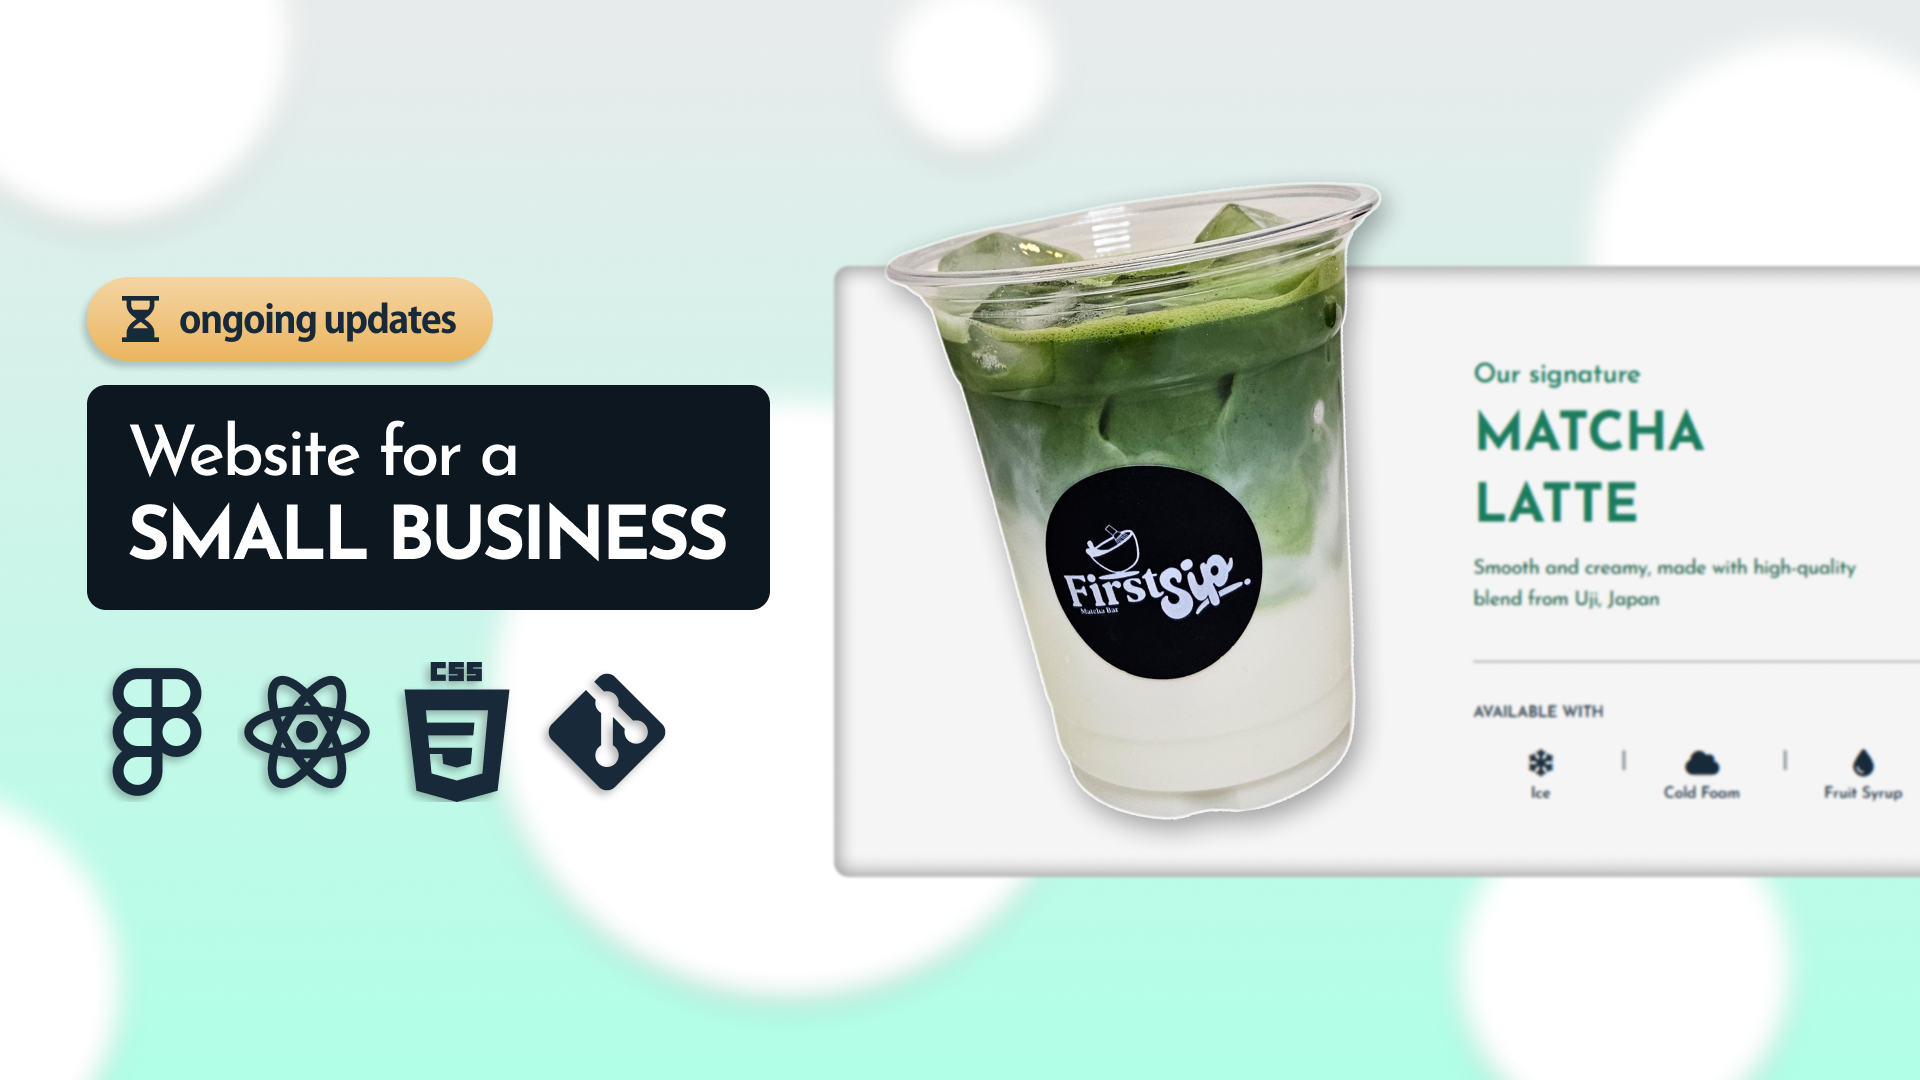
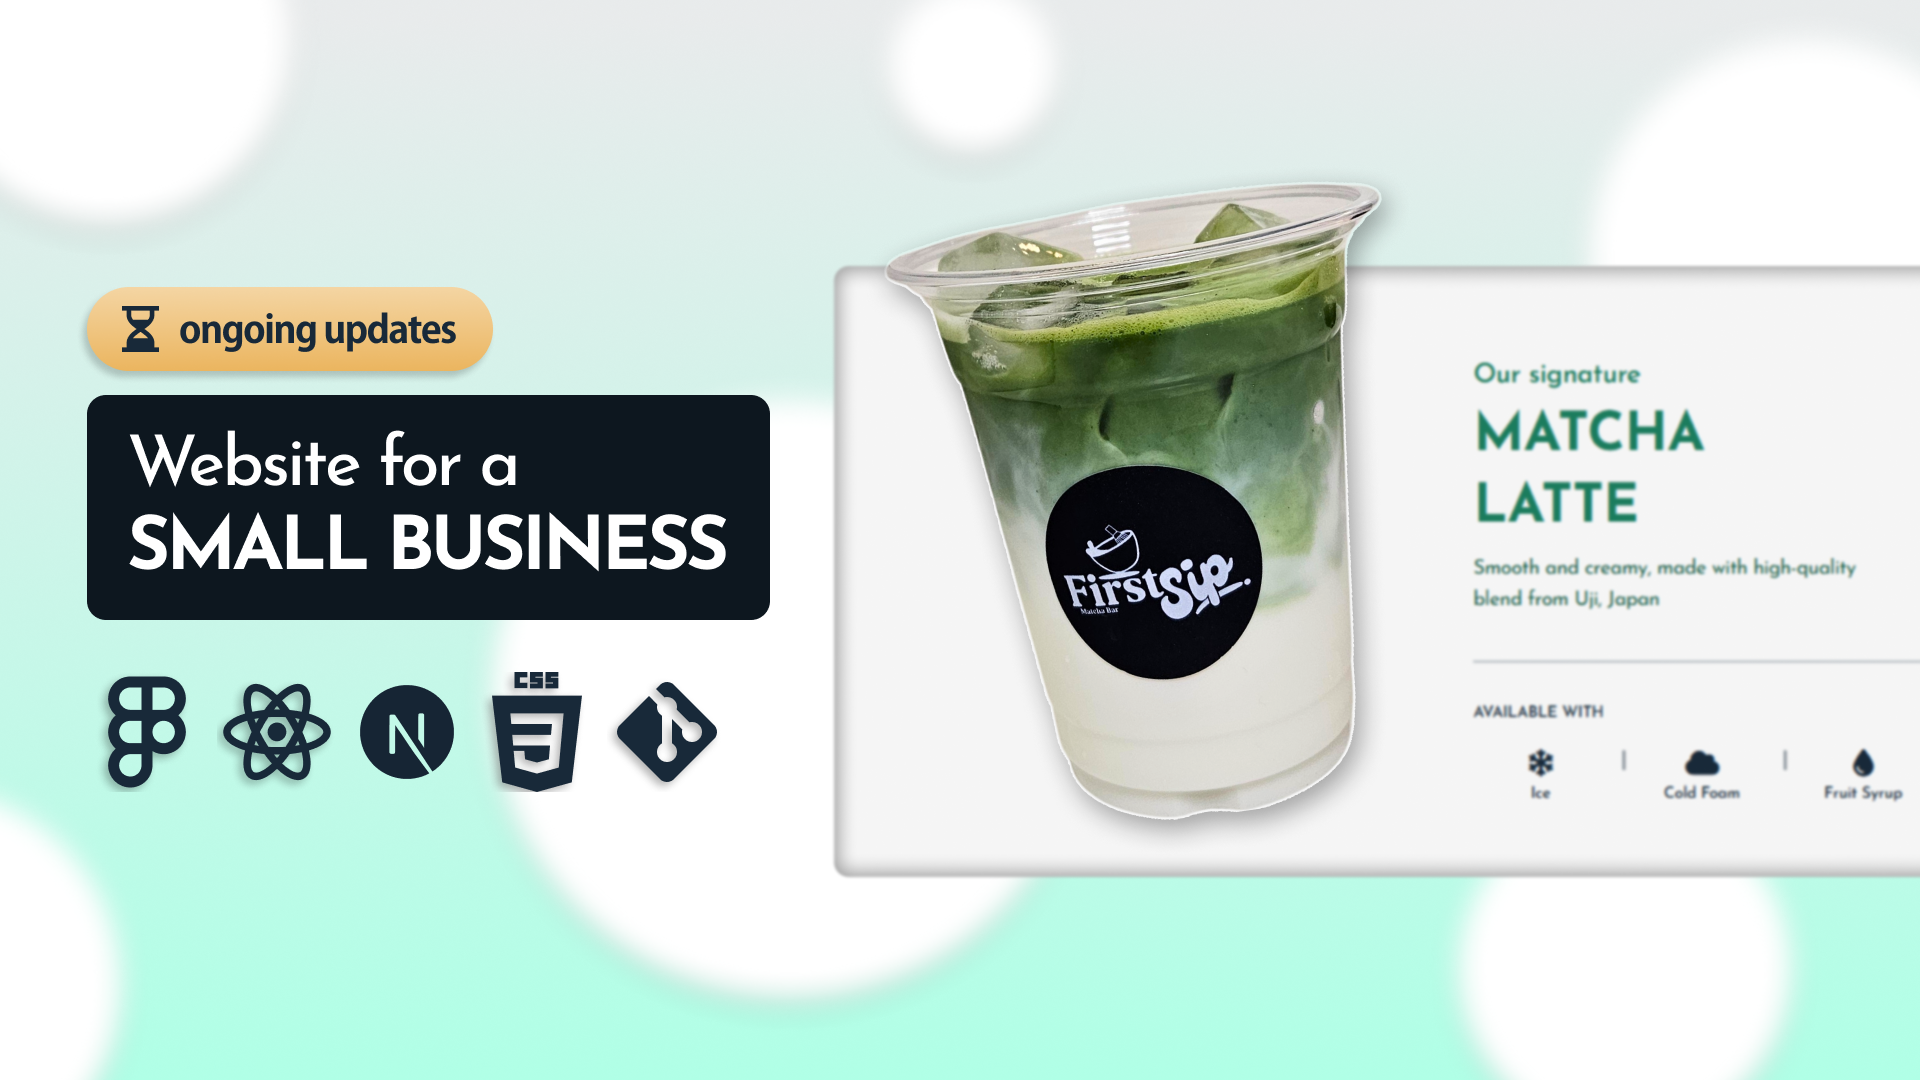
firstsipmatcha, now with next.js!

Changed region(s): [[0.0312, 0.3972, 0.4062, 0.5806], [0.0312, 0.6111, 0.375, 0.7639], [0.0312, 0.2444, 0.4062, 0.3667]]

diff --git a/portfolio/firstsipmatcha-website.html b/portfolio/firstsipmatcha-website.html
@@ -62,18 +62,18 @@
 
         <div class="project-info-item flex-col">
           <p class="subtitle">PLATFORM</p>
-          <p>Figma, ReactJS, CSS, Git<p>
+          <p>Figma, ReactJS, NextJS, Git<p>
         </div>
 
         <div class="project-info-item flex-col">
           <p class="subtitle">ROLE</p>
-          <p> UX, Developer </p>
+          <p> UX, Front-End Developer</p>
         </div>
 
         <div class="project-info-item flex-col">
           <p class="subtitle">DELIVERABLE</p>
           <a href="https://nenceh.github.io/firstsipmatcha/" target="_blank">
-            <p class = "link"><i>📎</i> Web Application (v1.9)</p>
+            <p class = "link"><i>📎</i> Web Application (v2.0)</p>
           </a>
         </div>
       </div>
@@ -102,7 +102,7 @@
             <p>I designed and developed a custom website for my friend's up-and-coming business. I have known her for quite some time, and her love and passion for matcha was my central inspiration.</p>
             <p>I had the opportunity to expand her vision and online presence with a functional webpage that is public and equally as shareable and presentable as an Instagram profile link. </p>
 
-            <p>Currently, I collaborate with her to extend design workflows and upcoming business goals with <a href="https://developer.squareup.com/docs/web-payments/overview" target="_blank">Square Web Payments SDK</a>. See <a href="#project-git-updates">&#x1F4D1; <code>git push</code> updates</a> for version release notes. </p>
+            <p>Currently, I collaborate with her to extend design workflows and upcoming business goals with <a href="https://developer.squareup.com/docs/web-payments/overview" target="_blank">Square Web Payments SDK</a>. In July 2025, I migrated from using only React to using <a href="https://nextjs.org/" target="_blank">Next</a>, the React Framework. See <a href="#project-git-updates">&#x1F4D1; <code>git push</code> updates</a> for version release notes. </p>
 
             <p class="break">Throughout your reading journey, I will include buttons to reveal some supplementary information. These only provide additional information and are not mandatory, but I highly recommend reading them!</p>
             
@@ -518,36 +518,77 @@
           <div class="section-body flex-col">
             <p class="break"><code>git push</code> updates log:</p>
             <ul>
-              <li>&#x1F4C5; 12/01/24 &#x2192; Initial commit v1.0</li>
-              <li>&#x1F4C5; 12/11/24
+              <li>&#x1F4C5; 07/20/25 &#x2192; NextJS port v2.0
                 <ul>
-                  <li>v1.1: new home page design, separate pages for <i>menu</i> and <i>about</i></li>
-                  <li>v1.2: mobile loading bug fixed</li>
+                  <li>TypeScript programming
+                    <figure class="media">
+                      <img class = "portfolio-entry-img" src="/images/portfolio/firstsipmatcha-website/nextjs-file-architecture.png" alt="An image of the file architecture for the new Next.js version of the web application.">
+                      <figcaption>next.js file architecture inside the <i>app</i> folder</figcaption>
+                    </figure>
+                  </li>
+                  <li><a href="https://nextjs.org/docs/app/guides/static-exports" target="_blank">static export</a> hosted on github pages</li>
+                  <li>implemented static <a href="https://nextjs.org/docs/app/api-reference/file-conventions/dynamic-routes" target="_blank">dynamic route segments</a> using <code>generateStaticParams()</code>
+                    <figure class="media">
+                      <img class = "portfolio-entry-img" src="/images/portfolio/firstsipmatcha-website/nextjs-build-dynamic-ssg.png" alt="A screenshot of the console displaying the .">
+                      <!-- <figcaption></figcaption> -->
+                    </figure>
+                    <ul>
+                      <li>each menu item has an individual route (i.e. website page)</li>
+                      <li>extended menu <code>json</code> database to include a unique <code>id</code> per menu item</li>
+                      <li>retrieve menu info from <code>json</code> files using <code>readFileSync()</code> and <code>JSON.parse()</code></li>
+                    </ul>
+                  </li>
+                  <li>individual route for each menu item
+                    <ul>
+                      <li>page design/layout:
+                        <ul>
+                          <li>main information (display image, item name as title, item description)</li>
+                          <li>secondary navigation: breadcrumbs</li>
+                          <li>item specific information (to be added)</li>
+                          <li>tertiary navigation: "related items" section (a small list of related menu items)</li>
+                        </ul>
+                      </li>
+                    </ul>
+                  </li>
+                  <li>implemented boundary navigation cases
+                    <ul>
+                      <li><code>not-found.tsx</code>: custom <i>page not found</i></li>
+                      <li><code>error.tsx</code>: custom error page as general fallback</li>
+                    </ul>
+                  </li>
+                  <li>created skeleton loading component</li>
                 </ul>
               </li>
-              <li>&#x1F4C5; 12/19/24 &#x2192; ReactJS port v1.3
+
+              <li>&#x1F4C5; 05/20/25 &#x2192; updated menu design</li>
+
+              <li>&#x1F4C5; 02/11/25 &#x2192; ui updates</li>
+
+              <li>&#x1F4C5; 02/14/25 &#x2192; ui & ux improvements v1.9
                 <ul>
-                  <li>learned React & practiced by recreating/transforming the website into a component-based application</li>
-                  <li>utilized the same <code>CSS</code> file(s)</li>
-                  <li>built progress bar using <a href="https://www.npmjs.com/package/nprogress" target="_blank">nprogress</a></li>
-                  <li>homepage countdown starts immediately</li>
-                  <li>renamed repository to <code>firstsipmatcha</code> from <code>firstsipmatcha-website</code></li>
+                  <li>implemented infinite carousel</li>
+                  <li>adjusted adaptive element behaviour at 346px and 1440px breakpoints</li>
                 </ul>
               </li>
-              <li>&#x1F4C5; 12/20/24 &#x2192; ReactJS cont. v1.4
+
+              <li>&#x1F4C5; 02/08/25 &#x2192; added home page hero carousel v1.8
                 <ul>
-                  <li>cleaned up some files</li>
-                  <li>some routing/paths proofing for <code>Routes</code>, <code>BrowserRouter</code></li>
-                  <li>favicon src inside <code>index.html</code> fixed</li>
-                  <li>patched 404 error on refresh</li>
+                  <li>automated 10 000 ms rotation</li>
+                  <li>ability to display 1+ information pieces</li>
+                  <li>each piece on one carousel slide</li>
+                  <li>added new collab announcement</li>
                 </ul>
               </li>
-              <li>&#x1F4C5; 12/23/24 &#x2192; v1.5
+
+              <li>&#x1F4C5; 01/18/25 &#x2192; updated home page countdown</li>
+
+              <li>&#x1F4C5; 01/04/25 &#x2192; v1.7
                 <ul>
-                  <li>updated some designs (Figma & front-end)</li>
-                  <li>built nav menu icon animation (via this <a href="https://blog.logrocket.com/creating-animated-hamburger-menu-icon-react/" target="_blank">LogRocket blog post</a> by Ibadehin Mojeed)</li>
+                  <li>added footer</li>
+                  <li>added more to About Us page</li>
                 </ul>
               </li>
+
               <li>&#x1F4C5; 01/01/25 &#x2192; mock database v1.6
                 <ul>
                   <li>moved menu info to its own <code>json</code> file</li>
@@ -558,36 +599,48 @@
                   <figcaption><i>draw.io</i> schema diagram</figcaption>
                 </figure>
               </li>
-              <li>&#x1F4C5; 01/04/25 &#x2192; v1.7
+
+              <li>&#x1F4C5; 12/23/24 &#x2192; v1.5
                 <ul>
-                  <li>added footer</li>
-                  <li>added more to About Us page</li>
+                  <li>updated some designs (Figma & front-end)</li>
+                  <li>built nav menu icon animation (via this <a href="https://blog.logrocket.com/creating-animated-hamburger-menu-icon-react/" target="_blank">LogRocket blog post</a> by Ibadehin Mojeed)</li>
                 </ul>
               </li>
-              <li>&#x1F4C5; 01/18/25 &#x2192; updated home page countdown</li>
-              <li>&#x1F4C5; 02/08/25 &#x2192; added home page hero carousel v1.8
+
+              <li>&#x1F4C5; 12/20/24 &#x2192; ReactJS cont. v1.4
                 <ul>
-                  <li>automated 10 000 ms rotation</li>
-                  <li>ability to display 1+ information pieces</li>
-                  <li>each piece on one carousel slide</li>
-                  <li>added new collab announcement</li>
+                  <li>cleaned up some files</li>
+                  <li>some routing/paths proofing for <code>Routes</code>, <code>BrowserRouter</code></li>
+                  <li>favicon src inside <code>index.html</code> fixed</li>
+                  <li>patched 404 error on refresh</li>
                 </ul>
               </li>
-              <li>&#x1F4C5; 02/11/25 &#x2192; ui updates</li>
-              <li>&#x1F4C5; 02/14/25 &#x2192; ui & ux improvements v1.9
+
+              <li>&#x1F4C5; 12/19/24 &#x2192; ReactJS port v1.3
                 <ul>
-                  <li>implemented infinite carousel</li>
-                  <li>adjusted adaptive element behaviour at 346px and 1440px breakpoints</li>
+                  <li>learned React & practiced by recreating/transforming the website into a component-based application</li>
+                  <li>utilized the same <code>CSS</code> file(s)</li>
+                  <li>built progress bar using <a href="https://www.npmjs.com/package/nprogress" target="_blank">nprogress</a></li>
+                  <li>homepage countdown starts immediately</li>
+                  <li>renamed repository to <code>firstsipmatcha</code> from <code>firstsipmatcha-website</code></li>
                 </ul>
               </li>
-              <li>&#x1F4C5; 05/20/25 &#x2192; updated menu design</li>
+
+              <li>&#x1F4C5; 12/11/24
+                <ul>
+                  <li>v1.1: new home page design, separate pages for <i>menu</i> and <i>about</i></li>
+                  <li>v1.2: mobile loading bug fixed</li>
+                </ul>
+              </li>
+
+              <li>&#x1F4C5; 12/01/24 &#x2192; Initial commit v1.0</li>              
             </ul>
           </div>
         </section>
       </main>
 
       <section class = "extra">
-        <p>Last modified: June 24, 2025</p>
+        <p>Last modified: July 21, 2025</p>
       </section>
     </div>
 

diff --git a/cv.html b/cv.html
@@ -96,6 +96,7 @@
                 <ul class="specs tags">
                   <li class="tag figma">Figma</li>
                   <li class="tag react">React.js</li>
+                  <li class="tag next">Next.js</li>
                   <li class="tag git">Git</li>
                 </ul>
                 <ul class="description">
@@ -256,12 +257,12 @@
               <h4 class="title">Personal</h4>
               <div class="info">
                 <div class="category">
-                  <p class="label">Hobbies</p>
+                  <p class="label" lang="en">Hobbies</p>
                   <p class="items">Movies, Gaming, Coding, Sports, eSports, Music, Piano, Drawing, Painting, Baking, Writing, DIY Projects, Knitting (NEW)</p>
                 </div>
                 <div class="category">
-                  <p class="label">Likes</p>
-                  <p class="items">Marvel Cinematic Universe (MCU), Pokémon, National Basketball Association (NBA), Toronto Raptors, Volleyball, Toronto Maple Leafs (occasionally)</p>
+                  <p class="label" lang="en">Likes</p>
+                  <p class="items">Marvel Cinematic Universe, Pokemon, National Basketball Association (NBA), Toronto Raptors, Volleyball, Hockey</p>
                 </div>
               </div>
             </div>

diff --git a/css/styles.css b/css/styles.css
@@ -168,6 +168,10 @@ main#cv {
   width: 100%;
 }
 
+#diploma {
+  text-align: center;
+}
+
 .cv-grid-item {
   display: flex;
   flex-direction: column;
@@ -192,6 +196,7 @@ main#cv {
   flex-direction: column;
 }
 .cv-grid-item .item .info .specs {
+  align-self: flex-start;
   display: flex;
   flex-flow: row wrap;
   list-style-type: none;
@@ -208,6 +213,9 @@ main#cv {
 }
 .cv-grid-item .item .info .specs .tag.react {
   background-color: #7DDFFF;
+}
+.cv-grid-item .item .info .specs .tag.next {
+  background-color: #0A0A0A;
 }
 .cv-grid-item .item .info .specs .tag.html {
   background-color: #F16529;
@@ -570,7 +578,7 @@ body .page-banner ul.breadcrumbs li:not(:first-child):before {
   body {
     margin: 40px auto 0;
   }
-  body .topnav-container, body p, body li, body img, body label {
+  body .topnav-container, body p, body li, body img, body label, body span {
     font-size: 16px;
     font-weight: 400;
     line-height: 28px;
@@ -984,7 +992,7 @@ body .page-banner ul.breadcrumbs li:not(:first-child):before {
   body {
     margin: 40px auto 0;
   }
-  body .topnav-container, body p, body li, body img, body label {
+  body .topnav-container, body p, body li, body img, body label, body span {
     font-size: 14px;
     font-weight: 400;
     line-height: 24px;
